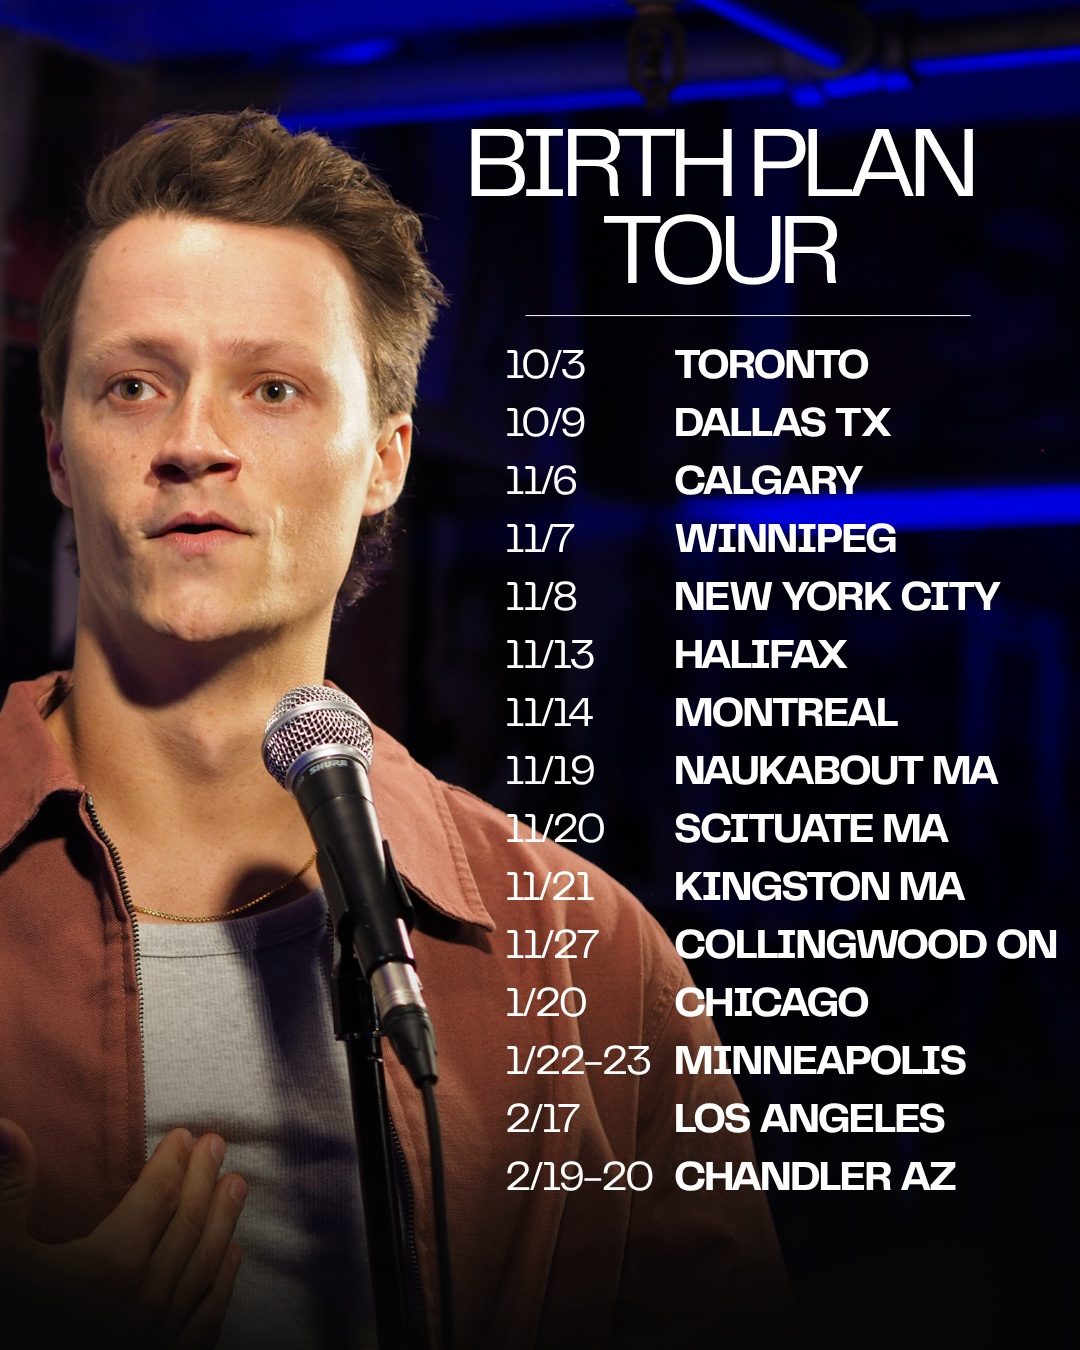
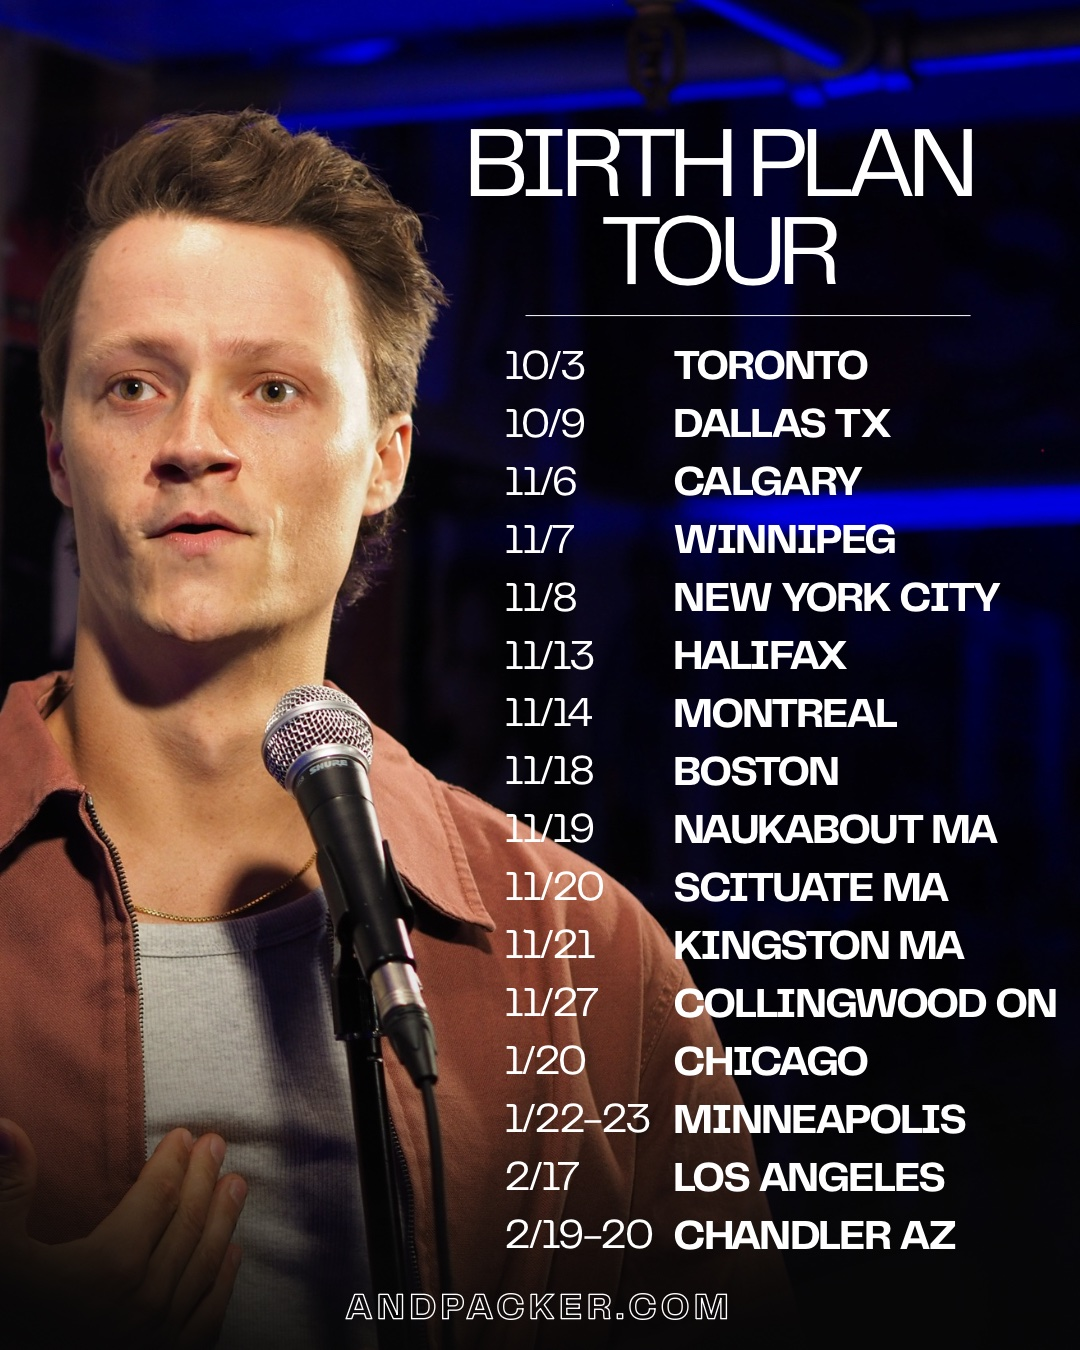
feat(home): refresh Birth Plan Tour poster (adds Boston 11/18)
New export adds 11/18 Boston and an andpacker.com footer. Boston has no
ticket row yet, so the alt text now names it alongside Chicago and
Minneapolis.

diff --git a/components/TourDates.tsx b/components/TourDates.tsx
@@ -120,7 +120,7 @@ export default function TourDates() {
         <div className="mt-12 flex justify-center">
           <Image
             src="/birth-plan-tour-poster.jpg"
-            alt="Andrew Packer Birth Plan Tour poster, listing the tour dates and cities including January 20 in Chicago and January 22 to 23 in Minneapolis"
+            alt="Andrew Packer Birth Plan Tour poster, listing the tour dates and cities including November 18 in Boston, January 20 in Chicago and January 22 to 23 in Minneapolis"
             width={1080}
             height={1350}
             sizes="(max-width: 624px) calc(100vw - 48px), 576px"
